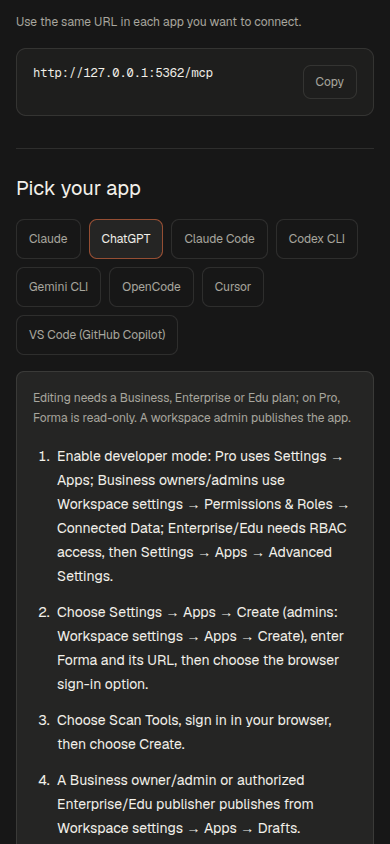
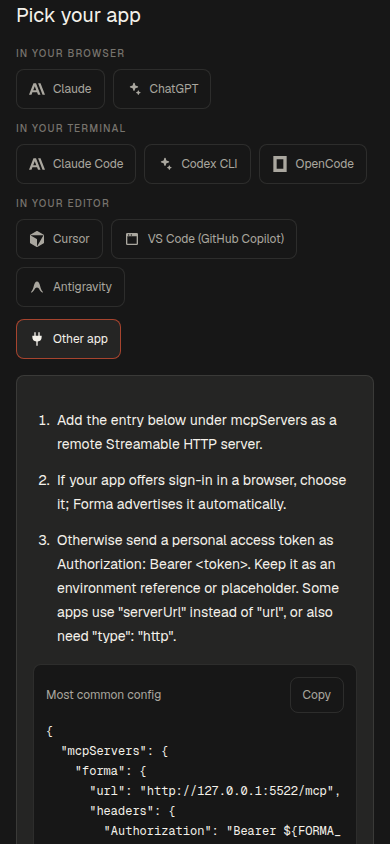
docs: document Antigravity and generic MCP setup

diff --git a/docs/ux/mcp-host-instructions.md b/docs/ux/mcp-host-instructions.md
@@ -1,6 +1,6 @@
 # MCP host connection instructions
 
-Research date: 2026-10-06. This guide records each host's current documented remote MCP setup; its linked vendor docs are the authority if labels move.
+Research updated 2026-10-08 for Google's Gemini CLI and Antigravity changes. Earlier host sections retain their source-read dates; linked vendor docs remain the authority if labels move.
 
 ## What Forma offers
 
@@ -96,7 +96,9 @@ For OAuth instead, omit `--bearer-token-env-var FORMA_TOKEN` and run `codex mcp 
 
 **Sources (read 2026-10-06):** [OpenAI: Codex MCP servers](https://developers.openai.com/codex/mcp).
 
-## Gemini CLI
+## Gemini CLI (retired for individual plans)
+
+**Retired for most individual users on 2026-06-18.** Google says Gemini CLI stopped serving requests for Google AI Pro and Ultra and for Gemini Code Assist for individuals on that date. Access remains unchanged for Gemini Code Assist Standard and Enterprise customers, and Gemini CLI remains available through paid Gemini and Gemini Enterprise Agent Platform API keys. The setup notes below are retained for those supported accounts; they are not the recommendation for most people.
 
 **Support.** Remote HTTP MCP: yes (Streamable HTTP and SSE). OAuth: yes; the CLI starts browser auth after a 401 and supports DCR. Bearer headers: yes, but current docs do not document environment-variable expansion for a remote HTTP `headers` value. No MCP-specific plan gate is listed; Google account/project policy can still apply, and organization policy can block user-added MCP servers.
 
@@ -110,7 +112,36 @@ For OAuth instead, omit `--bearer-token-env-var FORMA_TOKEN` and run `codex mcp 
 
 **Verification.** Docs only; Gemini CLI was not installed, and no software was installed for this research.
 
-**Sources (read 2026-10-06):** [Gemini CLI: MCP servers](https://github.com/google-gemini/gemini-cli/blob/main/docs/tools/mcp-server.md); [Gemini CLI: enterprise policy](https://github.com/google-gemini/gemini-cli/blob/main/docs/cli/enterprise.md).
+**Sources (setup checked 2026-10-06; retirement verified against Google sources 2026-10-08):** [Google Developers Blog: transition announcement](https://developers.googleblog.com/an-important-update-transitioning-gemini-cli-to-antigravity-cli/); [Gemini CLI: MCP servers](https://github.com/google-gemini/gemini-cli/blob/main/docs/tools/mcp-server.md); [Gemini CLI: enterprise policy](https://github.com/google-gemini/gemini-cli/blob/main/docs/cli/enterprise.md).
+
+## Antigravity (desktop, IDE, and CLI)
+
+**Support.** Remote Streamable HTTP: yes. A shared `mcpServers` config format is documented for Antigravity 2.0, Antigravity IDE, and Antigravity CLI, so one page entry covers all three. Use `serverUrl` for a remote server; the CLI migration guide says legacy `url` and `httpUrl` fields are not supported. Antigravity can sign in through the browser for servers that support automatic registration. Google documents no environment reference for a custom bearer header.
+
+**Steps (browser sign-in).**
+
+1. Add this entry to `~/.gemini/config/mcp_config.json` or the project file `.agents/mcp_config.json`:
+
+```json
+{
+  "mcpServers": {
+    "forma": {
+      "serverUrl": "<FORMA_MCP_URL>"
+    }
+  }
+}
+```
+
+2. In Antigravity's Agent settings, open **Customizations** and choose **Authenticate** next to Forma. Sign in in the browser, copy the code back, and submit it.
+3. In Antigravity CLI, run `/mcp` to check the connection.
+
+The MCP config format and server entry apply to Antigravity desktop, the IDE, and CLI. The desktop and IDE can also manage servers in their MCP settings. Antigravity stores its browser sign-in tokens in `~/.gemini/antigravity/mcp_oauth_tokens.json` and refreshes them.
+
+**Credential and pitfalls.** Use Forma's browser sign-in first. A personal access token can be sent in an `Authorization: Bearer <token>` header, but Google's custom-header example puts the token value in the config and does not document environment-variable expansion. If using a token, keep the real value out of shared files; do not assume `${FORMA_TOKEN}` is expanded. Google lists no MCP-specific plan gate; the signed-in account's model credits and quotas are separate.
+
+**Verification.** Docs only; Antigravity was not installed or run.
+
+**Official sources (checked 2026-10-08):** [Google Developers Blog: transition announcement](https://developers.googleblog.com/an-important-update-transitioning-gemini-cli-to-antigravity-cli/) (Google I/O 2026 transition; June 18 retirement and Enterprise/API-key exceptions); [Google I/O developer highlights](https://blog.google/innovation-and-ai/technology/developers-tools/google-io-2026-developer-highlights/) (2026-05-19 launch); [Antigravity MCP docs](https://antigravity.google/docs/mcp) (shared config, `serverUrl`, browser sign-in, and headers); [Antigravity CLI installation and authentication](https://antigravity.google/docs/cli/install) (local browser sign-in and credentials); [Antigravity CLI migration guide](https://antigravity.google/docs/cli/gcli-migration/) (`url`/`httpUrl` migration); [Antigravity IDE extensions](https://antigravity.google/docs/ide/extensions/) (individual free tier and account quotas).
 
 ## Cursor
 
@@ -280,3 +311,22 @@ Today's `apps/web/src/Agents.tsx` copy needs corrections:
    environment references. For VS Code, use its documented password prompt; Gemini CLI's token header expands into
    and is saved in Gemini's config. Every panel has a short requirement, 2–4 numbered steps, the live MCP URL in
    snippets, Copy buttons, and an official vendor guide.
+
+## Owner decisions (2026-10-08)
+
+1. Replace Gemini CLI in the current picker with Antigravity. Keep Gemini CLI's research section above, marked retired for individual plans, with Google's June 18, 2026 reason and the Enterprise/API-key exceptions.
+2. Use one **Antigravity** entry under **In your editor** for Antigravity desktop, IDE, and CLI. Google's MCP guide documents the same `mcpServers` structure for all three. Keep browser sign-in first; show the personal access token path only as a secondary option and say that Google documents no environment reference for bearer headers. The visible copy says “sign in,” not the provider's name for the flow.
+3. Keep one tablist and one active panel. Group Claude and ChatGPT under **In your browser**; Claude Code, Codex CLI, and OpenCode under **In your terminal**; Cursor, VS Code, and Antigravity under **In your editor**. Put **Other app** last, after the groups.
+4. **Other app** states the live URL, remote Streamable HTTP transport, browser sign-in when offered, and the `Authorization: Bearer <token>` alternative. Its example uses an environment reference or placeholder, never a token value; mention `serverUrl` and `"type": "http"` variants briefly.
+
+## App mark sources and licenses
+
+The picker uses 16px inline SVG paths with `currentColor`, so the marks follow the quiet chrome. Sources below were checked 2026-10-08.
+
+- **Claude / Claude Code:** [Simple Icons Anthropic SVG](https://github.com/simple-icons/simple-icons/blob/develop/icons/anthropic.svg), CC0 1.0 Universal ([Simple Icons license](https://github.com/simple-icons/simple-icons/blob/develop/LICENSE.md)).
+- **OpenCode:** [Simple Icons OpenCode SVG](https://github.com/simple-icons/simple-icons/blob/develop/icons/opencode.svg), CC0 1.0 Universal ([license](https://github.com/simple-icons/simple-icons/blob/develop/LICENSE.md)).
+- **Cursor:** [Simple Icons Cursor SVG](https://github.com/simple-icons/simple-icons/blob/develop/icons/cursor.svg), CC0 1.0 Universal ([license](https://github.com/simple-icons/simple-icons/blob/develop/LICENSE.md)).
+- **Antigravity:** [Google's one-color press SVG](https://antigravity.google/assets/image/brand/antigravity-icon__one-color.svg), linked from [Google Antigravity Press Assets](https://antigravity.google/press). It is a Google-owned press asset, not CC0; the path keeps the supplied mark and uses `currentColor` as required by the picker.
+- **ChatGPT / Codex CLI:** neutral sparkle glyphs drawn for Forma. The OpenAI mark is not in the current Simple Icons set; OpenAI's [brand guidelines](https://openai.com/brand/) require the mark to be used exactly as supplied and prohibit modifications, which conflicts with the required `currentColor` treatment.
+- **VS Code (GitHub Copilot):** neutral app-window glyph drawn for Forma. Microsoft's [VS Code brand rules](https://code.visualstudio.com/brand) forbid pairing its icon with the product name as a lockup; GitHub's [brand toolkit](https://brand.github.com/foundations/logo) says Copilot has no standalone logo as of 2025.
+- **Other app:** neutral plug glyph drawn for Forma; no vendor mark applies.
